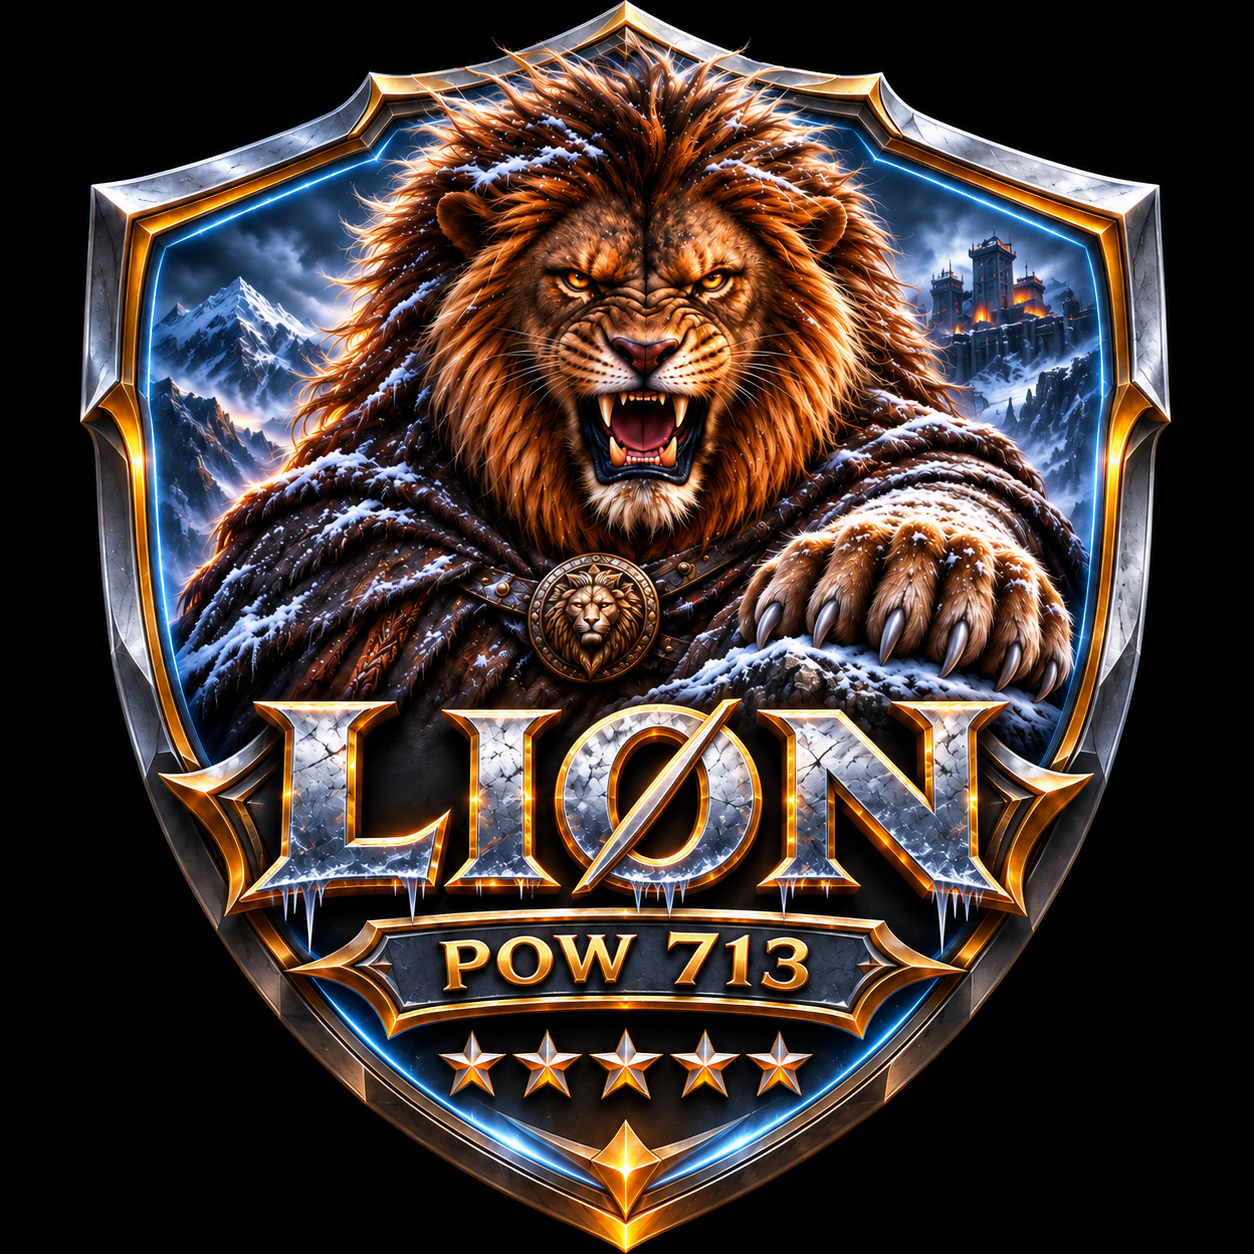
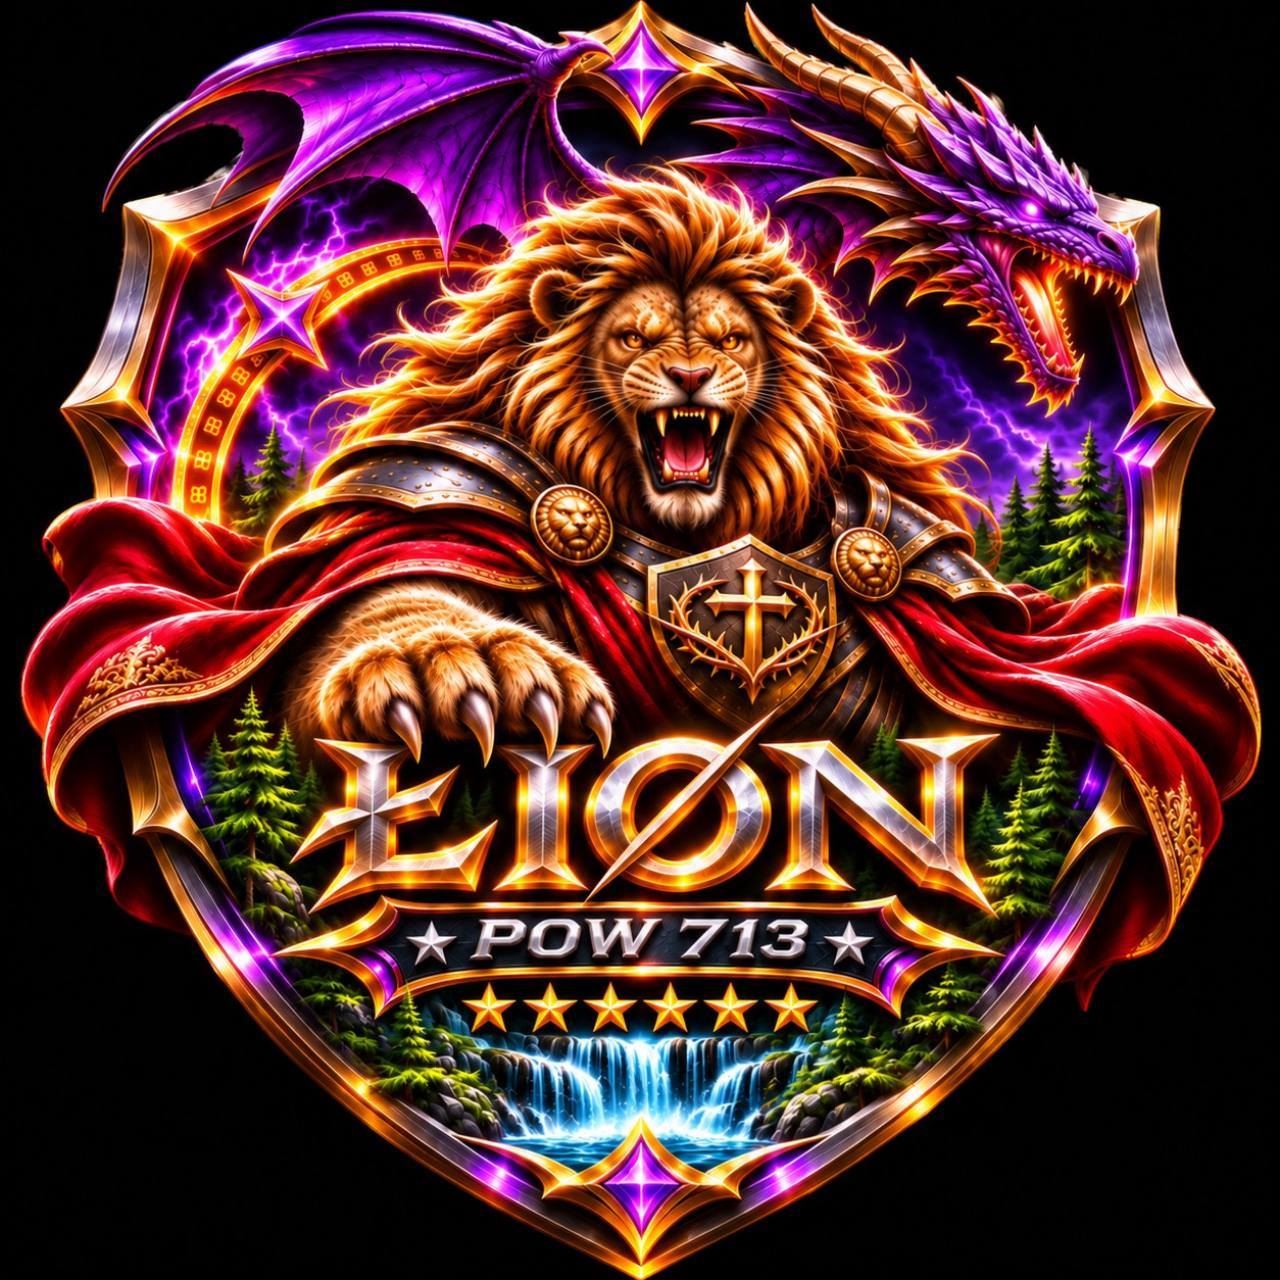
Update Lion badge with owner-approved lion and dragon artwork

diff --git a/ROSTER.md b/ROSTER.md
@@ -131,3 +131,7 @@ Members without completed characters may be registered here using their exact ga
 | MOSA | badges/mosa.png |
 | BiggJohn | badges/biggjohn.png |
 | D3V3L0P3R | badges/d3v3l0p3r.png |
+
+## Badge replacements
+
[1 lines of base64/hex data omitted]
